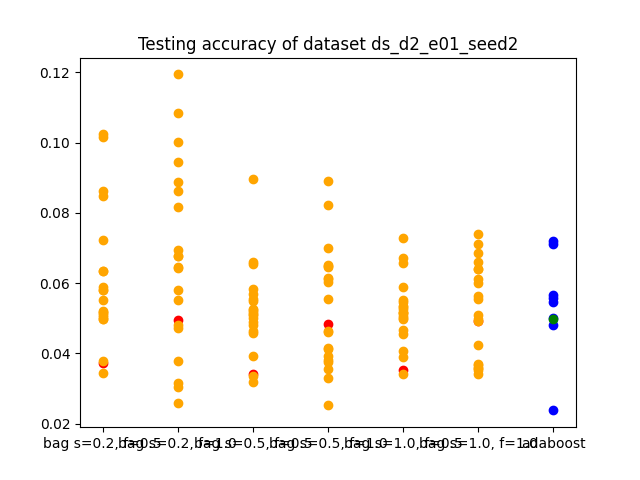
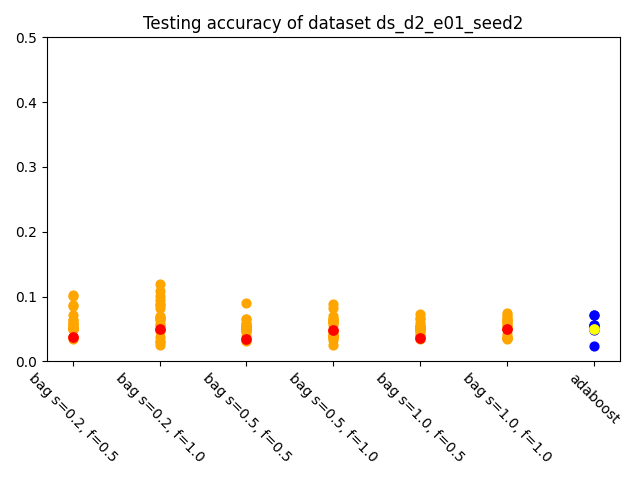
setup for last experiment

diff --git a/experiment.py b/experiment.py
@@ -8,7 +8,8 @@ from sklearn.base import BaseEstimator
 import jax
 import jax.numpy as jnp
 import optax
-from pennylane_varform import rx_embedding, ry_embedding, rz_embedding, hardware_efficient_ansatz, tfim_ansatz, ltfim_ansatz, zz_rx_ansatz
+from pennylane_varform import rx_embedding, ry_embedding, rz_embedding, hardware_efficient_ansatz, tfim_ansatz, \
+    ltfim_ansatz
 from sklearn.ensemble import BaggingRegressor
 from sklearn.ensemble import AdaBoostRegressor
 from pathlib import Path
@@ -19,7 +20,7 @@ from sklearn.metrics import mean_squared_error
 class PennyLaneModel(BaseEstimator):
 
     def __init__(self, var_form, layers):
-        assert var_form in ['hardware_efficient', 'tfim', 'ltfim', 'zz_rx']
+        assert var_form in ['hardware_efficient', 'tfim', 'ltfim']
         self.var_form = var_form
         self.layers = layers
         self.circuit = None
@@ -35,8 +36,6 @@ class PennyLaneModel(BaseEstimator):
             return tfim_ansatz, 2
         elif self.var_form == 'ltfim':
             return ltfim_ansatz, 3
-        elif self.var_form == 'zz_rx':
-            return zz_rx_ansatz, 2
 
     def create_circuit(self):
         device = qml.device("default.qubit.jax", wires=self.n_qubits)
@@ -47,7 +46,7 @@ class PennyLaneModel(BaseEstimator):
         def circuit(x, theta):
             ry_embedding(x, wires=range(self.n_qubits))
             for i in range(self.layers):
-                var_form_fn(theta[i * params_per_layer : (i + 1) * params_per_layer], wires=range(self.n_qubits))
+                var_form_fn(theta[i * params_per_layer: (i + 1) * params_per_layer], wires=range(self.n_qubits))
             return qml.expval(qml.PauliZ(wires=0))
 
         self.circuit = circuit
@@ -83,21 +82,84 @@ class PennyLaneModel(BaseEstimator):
         assert len(X.shape) == 2 and X.shape[1] == self.n_qubits, f"X shape is {X.shape}, n qubits {self.n_qubits}"
         return np.array([self.circuit(xi, self.params) for xi in X])
 
+    def get_params(self, deep=True):
+
+        def jnp_to_np(value):
+            try:
+                value_numpy = np.array(value)
+                return value_numpy
+            except:
+                try:
+                    value_numpy = np.array(value.primal)
+                    return value_numpy
+                except:
+                    try:
+                        value_numpy = np.array(value.primal.aval)
+                        return value_numpy
+                    except:
+                        raise ValueError(f"Cannot convert to numpy value {value}")
+
+        return jnp_to_np(self.params)
+
 
 @click.group()
 def main():
     pass
 
 
+def save_full_plot_to_file(directory_experiment, name, scores):
+    # label to plots
+    x_ticks = []
+
+    # create plot of the current bagging results
+    N = len(scores['max_features'])
+    for i in range(N):
+        max_samples = scores['max_samples'][i]
+        max_features = scores['max_features'][i]
+        mse = scores['mse_bagging'][i]
+        # print(max_samples, max_features, mse)
+        plt.scatter([i] * len(mse['bagging_estimators']),
+                    mse['bagging_estimators'],
+                    color='orange', s=40)
+        plt.scatter(i,
+                    mse['bagging'],
+                    color='red', s=45)
+        x_ticks.append(f"bag s={max_samples}, f={max_features}")
+
+    # create plot of the current boosting results
+    mse = scores['mse_adaboost']
+    plt.scatter([N] * len(mse['adaboost_estimators']),
+                mse['adaboost_estimators'],
+                color='blue', s=40)
+    plt.scatter(N,
+                mse['adaboost'],
+                color='yellow', s=45)
+    x_ticks.append("adaboost")
+
+    plt.title(f'Testing accuracy of dataset {name}')
+    plt.ylim((0, 0.5))
+    plt.xticks(ticks=range(len(x_ticks)), labels=x_ticks, rotation=-45)
+    plt.tight_layout()
+    plt.savefig(f"{directory_experiment}/{name}.png")
+    plt.close('all')
+
+
+@main.command()
+@click.option('--directory-experiment', type=click.Path(exists=True, dir_okay=True, file_okay=False), required=True)
+@click.option('--name', type=str, required=True)
+def regenerate_plot(directory_experiment, name):
+    score = json.load(open(f"{directory_experiment}/{name}.json"))
+    save_full_plot_to_file(directory_experiment, name, score)
+
+
 @main.command()
 @click.option('--directory-experiment', type=click.Path(exists=True, dir_okay=True, file_okay=False), required=True)
 @click.option('--directory-dataset', type=click.Path(exists=True, dir_okay=True, file_okay=False), required=True)
-@click.option('--varform', type=click.Choice(['hardware_efficient', 'tfim', 'ltfim', 'zz_rx']), required=True)
+@click.option('--varform', type=click.Choice(['hardware_efficient', 'tfim', 'ltfim']), required=True)
 @click.option('--layers', type=click.IntRange(1, 1000), required=False, default=1)
 @click.option('--n-estimators', type=click.IntRange(1, 100), required=False, default=20)
 @click.option('--seed', type=click.IntRange(1, 1000000), required=True)
 def run_jax(directory_experiment, directory_dataset, varform, layers, n_estimators, seed):
-
     specs = {'datetime': datetime.now().strftime('%Y-%m-%d %H:%M:%S'),
              'directory_experiment': directory_experiment,
              'directory_dataset': directory_dataset,
@@ -162,40 +224,70 @@ def run_jax(directory_experiment, directory_dataset, varform, layers, n_estimato
             print(scores)
             json.dump(scores, open(f"{directory_experiment}/{name}.json", "w"))
 
-            # label to plots
-            x_ticks = []
+            save_full_plot_to_file(directory_experiment, name, scores)
 
-            # create plot of the current bagging results
-            N = len(scores['max_features'])
-            for i in range(N):
-                max_samples = scores['max_samples'][i]
-                max_features = scores['max_features'][i]
-                mse = scores['mse_bagging'][i]
-                print(max_samples, max_features, mse)
-                plt.scatter(i,
-                            mse['bagging'],
-                            color='red')
-                plt.scatter([i] * len(mse['bagging_estimators']),
-                            mse['bagging_estimators'],
-                            color='orange')
-                x_ticks.append(f"bag s={max_samples}, f={max_features}")
 
-            # create plot of the current boosting results
-            mse = scores['mse_adaboost']
-            plt.scatter([N] * len(mse['adaboost_estimators']),
-                        mse['adaboost_estimators'],
-                        color='blue')
-            plt.scatter(N,
-                        mse['adaboost'],
-                        color='green')
-            x_ticks.append("adaboost")
+@main.command()
+@click.option('--directory-experiment', type=click.Path(exists=True, dir_okay=True, file_okay=False), required=True)
+@click.option('--directory-dataset', type=click.Path(exists=True, dir_okay=True, file_okay=False), required=True)
+@click.option('--varform', type=click.Choice(['hardware_efficient', 'tfim', 'ltfim']), required=True)
+@click.option('--layers', type=click.IntRange(1, 1000), required=False, default=1)
+@click.option('--n-estimators', type=click.IntRange(1, 100), required=False, default=20)
+@click.option('--seed', type=click.IntRange(1, 1000000), required=True)
+def run_jax_bag(directory_experiment, directory_dataset, varform, layers, n_estimators, seed):
+    specs = {'datetime': datetime.now().strftime('%Y-%m-%d %H:%M:%S'),
+             'directory_experiment': directory_experiment,
+             'directory_dataset': directory_dataset,
+             'varform': varform,
+             'layers': layers,
+             'n_estimators': n_estimators,
+             'seed': seed}
+    json.dump(specs, open(f"{directory_experiment}/specs.json", "w"))
 
-            plt.title(f'Testing accuracy of dataset {name}')
-            plt.xticks(ticks=range(len(x_ticks)), labels=x_ticks)
-            plt.savefig(f"{directory_experiment}/{name}.png")
-            plt.close('all')
+    base_estimator = PennyLaneModel(var_form=varform, layers=layers)
+
+    for subdir_ds in Path(directory_dataset).iterdir():
+        if subdir_ds.is_dir():
+            print(f"Evaluating dataset {subdir_ds.name}")
+
+            X_train = np.load(f"{subdir_ds}/train_X.npy")
+            y_train = np.load(f"{subdir_ds}/train_y.npy")
+            X_test = np.load(f"{subdir_ds}/test_X.npy")
+            y_test = np.load(f"{subdir_ds}/test_y.npy")
+
+            # evaluate bagging
+            max_samples = 0.2
+            max_features = 0.5
+
+            # create compact score
+            scores = []
+
+            bag_regr = BaggingRegressor(base_estimator=base_estimator,
+                                        n_estimators=n_estimators,
+                                        max_features=max_features,
+                                        max_samples=max_samples,
+                                        random_state=seed)
+            bag_regr.fit(X_train, y_train)
+            scores.append({
+                'max_features': max_features,
+                'max_samples': max_samples,
+                'varform': varform,
+                'layers': layers,
+                'bagging_mse': mean_squared_error(y_test, bag_regr.predict(X_test)),
+                'bagging_estimators_mse': [],
+                'bagging_estimators_params': []
+            })
+            for estimator, feature_list in zip(bag_regr.estimators_, bag_regr.estimators_features_):
+                mse_bag_estimator = mean_squared_error(y_test, estimator.predict(X_test[:, feature_list]))
+                params_bag_estimator = estimator.get_params()
+                scores['mse_bagging'][-1]['bagging_estimators_mse'].append(mse_bag_estimator)
+                scores['mse_bagging'][-1]['bagging_estimators_params'].append(params_bag_estimator)
+
+            # save bagging properties to file
+            name = subdir_ds.name
+            print(scores)
+            json.dump(scores, open(f"{directory_experiment}/{name}.json", "w"))
 
 
 if __name__ == '__main__':
     main()
-

diff --git a/pennylane_varform.py b/pennylane_varform.py
@@ -27,6 +27,7 @@ def hardware_efficient_ansatz(theta, wires):
 def tfim_ansatz(theta, wires):
     """
     Figure 6a (left) in https://arxiv.org/pdf/2105.14377.pdf
+    Figure 7a in https://arxiv.org/pdf/2109.11676.pdf
     """
     N = len(wires)
     assert len(theta) == 2
@@ -47,17 +48,3 @@ def ltfim_ansatz(theta, wires):
     tfim_ansatz(theta[:2], wires)
     for i in range(N):
         qml.RZ(theta[2], wires=wires[i])
-
-
-def zz_rx_ansatz(theta, wires):
-    """
-    Figure 7a in https://arxiv.org/pdf/2109.11676.pdf
-    """
-    N = len(wires)
-    assert len(theta) == 2
-    for i in range(N // 2):
-        qml.MultiRZ(theta[0], wires=[wires[2 * i], wires[2 * i + 1]])
-    for i in range(N // 2 - 1):
-        qml.MultiRZ(theta[0], wires=[wires[2 * i + 1], wires[2 * i + 2]])
-    for i in range(N):
-        qml.RX(theta[1], wires=wires[i])

diff --git a/dataset_linear.py b/dataset_linear.py
@@ -38,6 +38,7 @@ def generate_dataset_process(directory, d, epsilon, n_train, n_test, seed):
     plt.savefig(f"{directory}/testing_set.png")
     plt.close('all')
 
+
 @click.group()
 def main():
     pass
